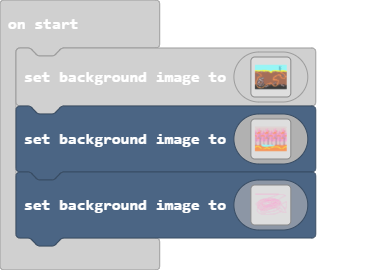
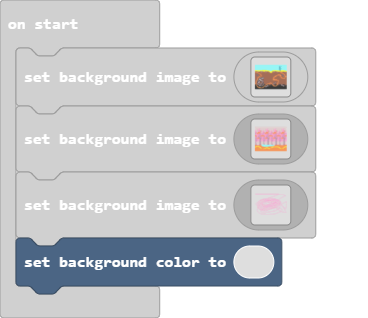
Update main.blocks, main.ts

diff --git a/main.ts b/main.ts
@@ -122,3 +122,4 @@ scene.setBackgroundImage(img`
     ................................................................................................................................................................
     ................................................................................................................................................................
     `)
+scene.setBackgroundColor(0)
